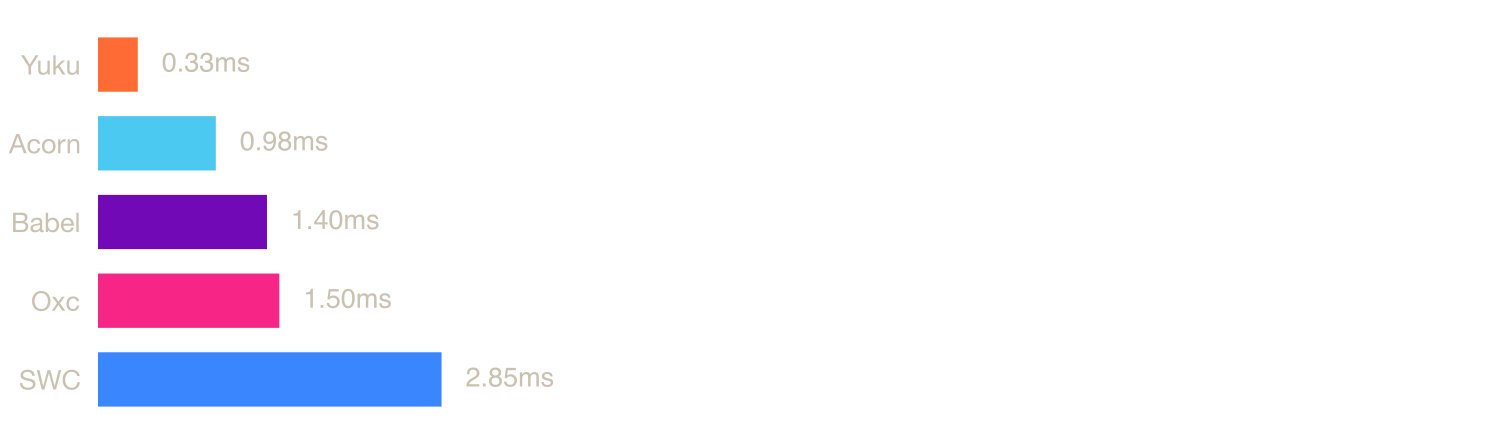
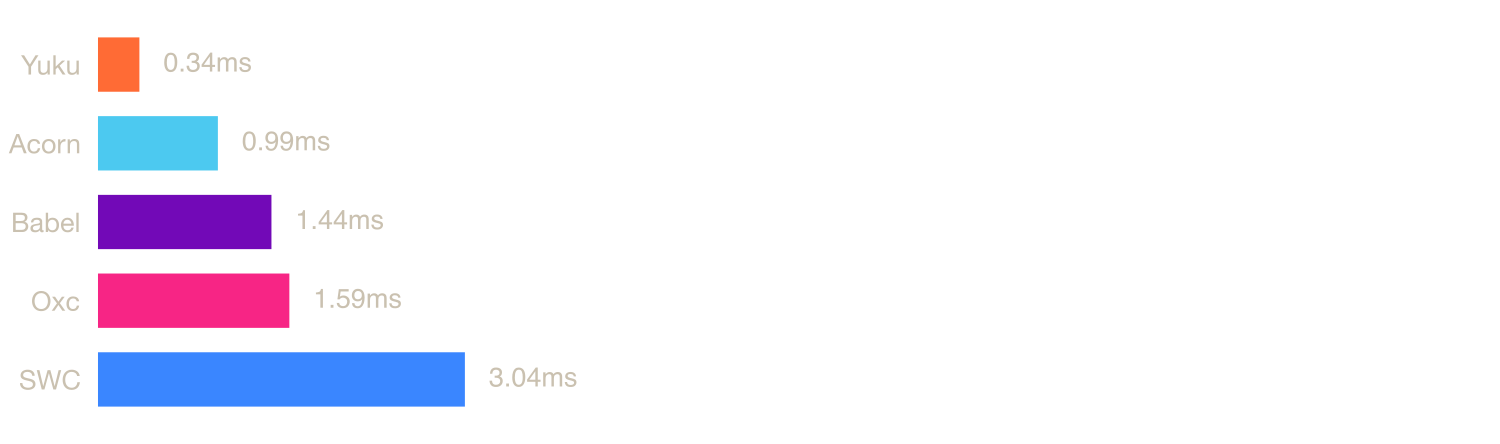
update parsers

diff --git a/scripts/bench.ts b/scripts/bench.ts
@@ -6,13 +6,11 @@ import * as babel from "@babel/parser";
 import * as oxc from "oxc-parser";
 import swc from "@swc/core";
 import type { ParseOptions as SwcParseOptions } from "@swc/types";
-import { parse as yukuParseSync } from "yuku-parser";
+import { parse as yukuParseSync, type SourceLang } from "yuku-parser";
 
-type Lang = "js" | "tsx";
-
-const FILES: Record<string, { path: string; lang: Lang }> = {
+const FILES: Record<string, { path: string; lang: SourceLang }> = {
   typescript: { path: "files/typescript.js", lang: "js" },
-  calcom: { path: "files/calcom.tsx", lang: "tsx" },
+  checker: { path: "files/checker.ts", lang: "ts" },
   react: { path: "files/react.js", lang: "js" },
 };
 
@@ -31,40 +29,46 @@ interface FileResult {
   results: BenchResult[];
 }
 
-async function benchFile(fileKey: string, file: { path: string; lang: Lang }): Promise<FileResult> {
+async function benchFile(
+  fileKey: string,
+  file: { path: string; lang: SourceLang },
+): Promise<FileResult> {
   const source = await readFile(join(process.cwd(), file.path), "utf-8");
-  const isTsx = file.lang === "tsx";
+  const isTs = file.lang === "ts" || file.lang === "tsx";
+  const isJsx = file.lang === "tsx";
 
   const bench = new Bench({ time: 5000, warmupTime: 1000 });
 
-  if (!isTsx) {
+  if (!isTs) {
     bench.add("Acorn", () => {
       const { body: _ } = acorn.parse(source, { ecmaVersion: "latest", sourceType: "module" });
     });
   }
 
-  const babelPlugins: babel.ParserPlugin[] = isTsx ? ["typescript", "jsx"] : [];
+  const babelPlugins: babel.ParserPlugin[] = [];
+  if (isTs) babelPlugins.push("typescript");
+  if (isJsx) babelPlugins.push("jsx");
   bench.add("Babel", () => {
     const { program: _ } = babel.parse(source, {
       sourceType: "module",
       plugins: babelPlugins,
-      errorRecovery: isTsx,
+      errorRecovery: isTs,
     });
   });
 
-  const oxcFilename = isTsx ? "bench.tsx" : "bench.js";
+  const oxcFilename = isJsx ? "bench.tsx" : isTs ? "bench.ts" : "bench.js";
   bench.add("Oxc", () => {
     const { program: _ } = oxc.parseSync(oxcFilename, source);
   });
 
-  const swcSyntax: SwcParseOptions = isTsx
-    ? { syntax: "typescript", tsx: true }
+  const swcSyntax: SwcParseOptions = isTs
+    ? { syntax: "typescript", tsx: isJsx }
     : { syntax: "ecmascript" };
   bench.add("SWC", () => {
     const { body: _ } = swc.parseSync(source, swcSyntax);
   });
 
-  const yukuOptions = isTsx ? { lang: "tsx" as const } : undefined;
+  const yukuOptions = file.lang === "js" ? undefined : { lang: file.lang };
   bench.add("Yuku", () => {
     const { program: _ } = yukuParseSync(source, yukuOptions);
   });
@@ -93,18 +97,16 @@ async function benchFile(fileKey: string, file: { path: string; lang: Lang }): P
 
 async function main() {
   const targetFiles = process.argv.slice(2);
-  const filesToBench = targetFiles.length > 0
-    ? Object.entries(FILES).filter(([key]) => targetFiles.includes(key))
-    : Object.entries(FILES);
+  const filesToBench =
+    targetFiles.length > 0
+      ? Object.entries(FILES).filter(([key]) => targetFiles.includes(key))
+      : Object.entries(FILES);
 
   await mkdir(join(process.cwd(), "result"), { recursive: true });
 
   for (const [key, file] of filesToBench) {
     const result = await benchFile(key, file);
-    await writeFile(
-      join(process.cwd(), "result", `${key}.json`),
-      JSON.stringify(result, null, 2),
-    );
+    await writeFile(join(process.cwd(), "result", `${key}.json`), JSON.stringify(result, null, 2));
   }
 
   console.log("\nBenchmark complete!");

diff --git a/scripts/generate-readme.ts b/scripts/generate-readme.ts
@@ -10,20 +10,17 @@ const FILES_SOURCE_URL_PREFIX =
 const PARSERS = {
   acorn: {
     name: "Acorn",
-    description:
-      "A tiny, fast JavaScript parser, written completely in JavaScript.",
+    description: "A tiny, fast JavaScript parser, written completely in JavaScript.",
     url: "https://github.com/acornjs/acorn",
   },
   babel: {
     name: "Babel",
-    description:
-      "A JavaScript compiler and parser used by the Babel toolchain.",
+    description: "A JavaScript compiler and parser used by the Babel toolchain.",
     url: "https://github.com/babel/babel/tree/main/packages/babel-parser",
   },
   oxc: {
     name: "Oxc",
-    description:
-      "A high-performance JavaScript and TypeScript parser written in Rust.",
+    description: "A high-performance JavaScript and TypeScript parser written in Rust.",
     url: "https://github.com/oxc-project/oxc",
   },
   swc: {
@@ -61,9 +58,9 @@ const FILES = {
     path: "files/typescript.js",
     source_url: `${FILES_SOURCE_URL_PREFIX}/typescript.js`,
   },
-  calcom: {
-    path: "files/calcom.tsx",
-    source_url: `${FILES_SOURCE_URL_PREFIX}/calcom.tsx`,
+  checker: {
+    path: "files/checker.ts",
+    source_url: `${FILES_SOURCE_URL_PREFIX}/checker.ts`,
   },
   react: {
     path: "files/react.js",
@@ -307,7 +304,8 @@ function getSystemInfo(): string {
   const os = platform();
   const osArch = arch();
   const osRelease = release();
-  const osName = os === "darwin" ? "macOS" : os === "win32" ? "Windows" : os === "linux" ? "Linux" : os;
+  const osName =
+    os === "darwin" ? "macOS" : os === "win32" ? "Windows" : os === "linux" ? "Linux" : os;
 
   return `## System
 

diff --git a/scripts/load-files.ts b/scripts/load-files.ts
@@ -13,8 +13,15 @@ console.log("\nDownloading files...");
 
 Bun.spawnSync({
   cmd: [
-    "git", "clone", "--quiet", "--no-progress", "--single-branch", "--depth", "1",
-    REPO_URL, DEST,
+    "git",
+    "clone",
+    "--quiet",
+    "--no-progress",
+    "--single-branch",
+    "--depth",
+    "1",
+    REPO_URL,
+    DEST,
   ],
 });
 

diff --git a/README.md b/README.md
@@ -43,24 +43,24 @@ A high-performance & spec-compliant JavaScript/TypeScript compiler written in Zi
 
 | Parser | Mean | Min | Max | Ops/sec | Relative |
 |--------|------|-----|-----|---------|----------|
-| **Yuku** | **50.78 ms** | **45.28 ms** | **87.82 ms** | **19.69 ops/s** | **baseline** |
-| Acorn | 134.69 ms | 124.39 ms | 150.16 ms | 7.42 ops/s | 2.65× slower |
-| Babel | 194.39 ms | 146.65 ms | 316.22 ms | 5.14 ops/s | 3.83× slower |
-| Oxc | 269.82 ms | 261.41 ms | 344.09 ms | 3.71 ops/s | 5.31× slower |
-| SWC | 497.29 ms | 463.70 ms | 596.66 ms | 2.01 ops/s | 9.79× slower |
+| **Yuku** | **50.05 ms** | **44.91 ms** | **94.55 ms** | **19.98 ops/s** | **baseline** |
+| Acorn | 145.62 ms | 135.62 ms | 164.76 ms | 6.87 ops/s | 2.91× slower |
+| Babel | 190.47 ms | 150.04 ms | 245.37 ms | 5.25 ops/s | 3.81× slower |
+| Oxc | 268.08 ms | 259.26 ms | 298.46 ms | 3.73 ops/s | 5.36× slower |
+| SWC | 496.46 ms | 471.37 ms | 606.32 ms | 2.01 ops/s | 9.92× slower |
 
-### [calcom.tsx](https://raw.githubusercontent.com/yuku-toolchain/parser-benchmark-files/refs/heads/main/calcom.tsx)
+### [checker.ts](https://raw.githubusercontent.com/yuku-toolchain/parser-benchmark-files/refs/heads/main/checker.ts)
 
-**File size:** 1.01 MB
+**File size:** 2.95 MB
 
-![Bar chart comparing npm parser speeds for calcom.tsx](charts/calcom.png)
+![Bar chart comparing npm parser speeds for checker.ts](charts/checker.png)
 
 | Parser | Mean | Min | Max | Ops/sec | Relative |
 |--------|------|-----|-----|---------|----------|
-| **Yuku** | **9.07 ms** | **8.51 ms** | **15.18 ms** | **110.31 ops/s** | **baseline** |
-| Babel | 39.88 ms | 31.68 ms | 56.08 ms | 25.07 ops/s | 4.40× slower |
-| Oxc | 56.66 ms | 54.26 ms | 81.47 ms | 17.65 ops/s | 6.25× slower |
-| SWC | 72.14 ms | 70.42 ms | 79.28 ms | 13.86 ops/s | 7.96× slower |
+| **Yuku** | **17.68 ms** | **16.34 ms** | **38.28 ms** | **56.56 ops/s** | **baseline** |
+| Babel | 79.12 ms | 64.28 ms | 98.73 ms | 12.64 ops/s | 4.48× slower |
+| Oxc | 85.17 ms | 80.89 ms | 142.72 ms | 11.74 ops/s | 4.82× slower |
+| SWC | 160.03 ms | 154.76 ms | 189.09 ms | 6.25 ops/s | 9.05× slower |
 | Acorn | Failed to parse | - | - | - | - |
 
 ### [react.js](https://raw.githubusercontent.com/yuku-toolchain/parser-benchmark-files/refs/heads/main/react.js)
@@ -71,11 +71,11 @@ A high-performance & spec-compliant JavaScript/TypeScript compiler written in Zi
 
 | Parser | Mean | Min | Max | Ops/sec | Relative |
 |--------|------|-----|-----|---------|----------|
-| **Yuku** | **0.33 ms** | **0.31 ms** | **5.25 ms** | **3033.54 ops/s** | **baseline** |
-| Acorn | 0.98 ms | 0.94 ms | 2.54 ms | 1024.40 ops/s | 2.96× slower |
-| Babel | 1.40 ms | 1.22 ms | 6.54 ms | 714.30 ops/s | 4.25× slower |
-| Oxc | 1.50 ms | 1.47 ms | 2.84 ms | 665.70 ops/s | 4.56× slower |
-| SWC | 2.85 ms | 2.79 ms | 3.92 ms | 351.33 ops/s | 8.63× slower |
+| **Yuku** | **0.34 ms** | **0.31 ms** | **6.34 ms** | **2915.18 ops/s** | **baseline** |
+| Acorn | 0.99 ms | 0.97 ms | 1.94 ms | 1006.72 ops/s | 2.90× slower |
+| Babel | 1.44 ms | 1.16 ms | 5.54 ms | 695.84 ops/s | 4.19× slower |
+| Oxc | 1.59 ms | 1.48 ms | 17.05 ms | 630.73 ops/s | 4.62× slower |
+| SWC | 3.04 ms | 2.81 ms | 18.43 ms | 328.97 ops/s | 8.86× slower |
 
 ## Run Benchmarks
 